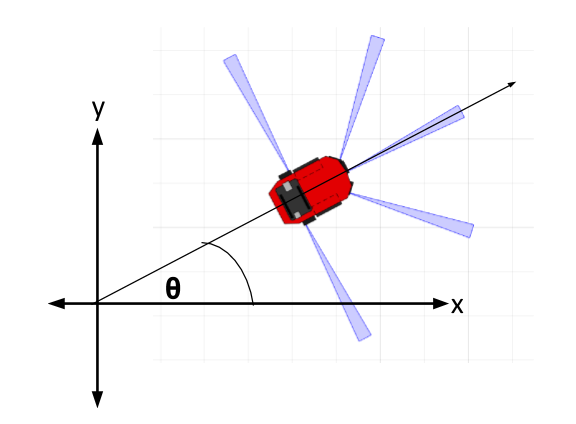
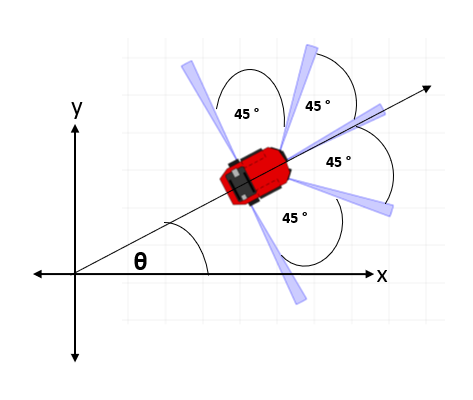
Changed SnA challenge

diff --git a/recruitments.html b/recruitments.html
@@ -346,23 +346,23 @@
 						<p><span class="orange">Memory:</span> In this mode, the <b>LEDs</b> must glow in the order
 							decided by the sequence with which the pushbuttons are pressed. For example, take the
 							following sequence:</p>
-							<div class="grid-x grid-margin-x">
-								<div class="cell small-12 large-12 medium-12">
-									<div class="hide-for-small-only">
-										<center>
-											<img class="embedded2-img" style="width: 50%; height: 50%"
-												src="/static/images/png/recruitments/pc_5.png" /> </center>
-									</div>
-								</div>
-			
-								<div class="cell small-12">
-									<div class="show-for-small-only">
-										<center>
-											<img class="embedded2-img" style="width: 100%; height: 100%"
-												src="/static/images/png/recruitments/pc_5.png" /> </center>
-									</div>
+						<div class="grid-x grid-margin-x">
+							<div class="cell small-12 large-12 medium-12">
+								<div class="hide-for-small-only">
+									<center>
+										<img class="embedded2-img" style="width: 50%; height: 50%"
+											src="/static/images/png/recruitments/pc_5.png" /> </center>
 								</div>
 							</div>
+
+							<div class="cell small-12">
+								<div class="show-for-small-only">
+									<center>
+										<img class="embedded2-img" style="width: 100%; height: 100%"
+											src="/static/images/png/recruitments/pc_5.png" /> </center>
+								</div>
+							</div>
+						</div>
 					</li>
 				</ul>
 
@@ -386,9 +386,9 @@
 				</h3>
 				<p>
 					You are building an intelligent robotic spy to spy on an alleged criminal. The robot spy is equipped
-					with many sensors utilizing which it would relay important information regarding the alleged to you.
-					The base of the robot is a 2-wheeled differential drive robot with 5 ultrasonic sensors arranged as
-					shown.
+					with 5 ultrasonic sensors using which you can obtain information regarding obstacles in the
+					environment. The base of the robot is a 2-wheeled differential drive robot with 5 ultrasonic sensors
+					arranged as shown. (45 degrees with respect to each other)
 
 				</p>
 				<div class="grid-x grid-margin-x">
@@ -410,17 +410,18 @@
 				</div>
 
 				<h4><span class="orange">LEVEL-1 TASK</span></h4>
-				<p>Design an approach and write code to program the robot to follow the suspect in a bounded unknown
-					environment with only rectangular obstacles. The robot must also avoid the obstacles as it tries to
-					follow the target. The constraint is to stay close to the target but not too close to avoid getting
-					caught. The ideal radius to spy on is between 1m to 2m.</p>
+				<p>Design an approach and write pseudo code to program the robot to follow the suspect in a
+					bounded unknown environment with only rectangular obstacles. The robot must also avoid the
+					obstacles as it tries to follow the target. The constraint is to stay close to the target but not
+					too
+					close to avoid getting caught. The ideal radius to spy on is between 4m to 5m.</p>
 				<h5><span class="orange">Assumptions:</span></h5>
 				<ul>
 					<li>
 						<p>
-							Assume that you receive the position of the target from the command center in the form of
-							(x, y) coordinates w.r.t the bottom left of the bounded field which is to be considered the
-							origin I.e., (0, 0).
+							Assume that you receive the position of the target from the command center in the form
+							of (x, y) coordinates w.r.t the bottom left of the bounded field which is to be considered
+							the origin I.e., (0, 0) in meters every timestep.
 						</p>
 					</li>
 					<li>
@@ -434,13 +435,29 @@
 							Robot always starts from origin(0,0,0).
 						</p>
 					</li>
+					<li>
+						<p>
+							Max speed of the robot: 5 m/s
+						</p>
+					</li>
 				</ul>
+
+				<p>Expected Output: You must output the control commands i.e., speeds of the left and right wheels
+					of the bot in m/s every timestep.</p>
 
 				<h4><span class="orange">LEVEL-2 TASK</span></h4>
 				<p>The robotic spy was working according to the expectations but now the in-built positioning system has
 					failed, now you can’t expect the robot to know its current position(x,y,theta).</p>
+				<p>Since, the positioning system has failed, add additional sensor(s) to the robot which would help in
+					keeping track of its global position. [Hint: An example sensor which can be added is Rotary
+					Encoder, feel free to use any other sensor of your choice.]</p>
+
 				<p>Modify the approach in order to make this system work satisfactorily. The assumption that robot
 					always starts from origin still holds.</p>
+				<p>Expected Output: Same as Level 1.</p>
+				<p><span class="orange">Note:</span> The approach to solve the problem would be given more importance.
+					An abstract (but
+					detailed) pseudo code to solve the problem would suffice (Programming language of your choice).</p>
 
 				<p>An example environment is given below with the differential drive robot</p>
 
